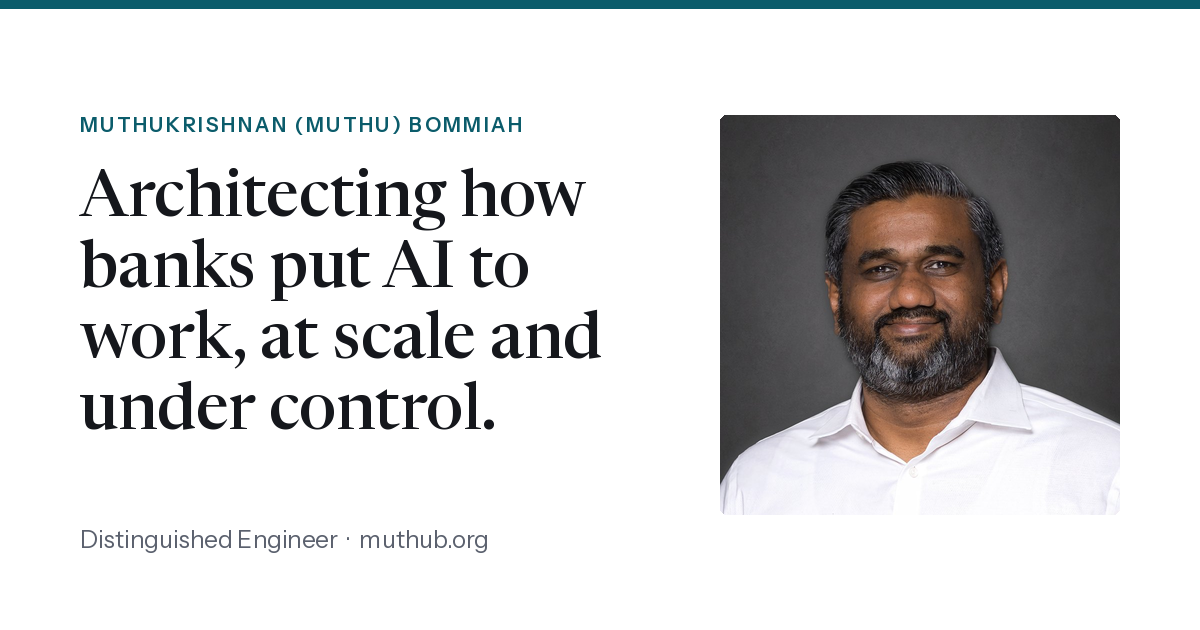
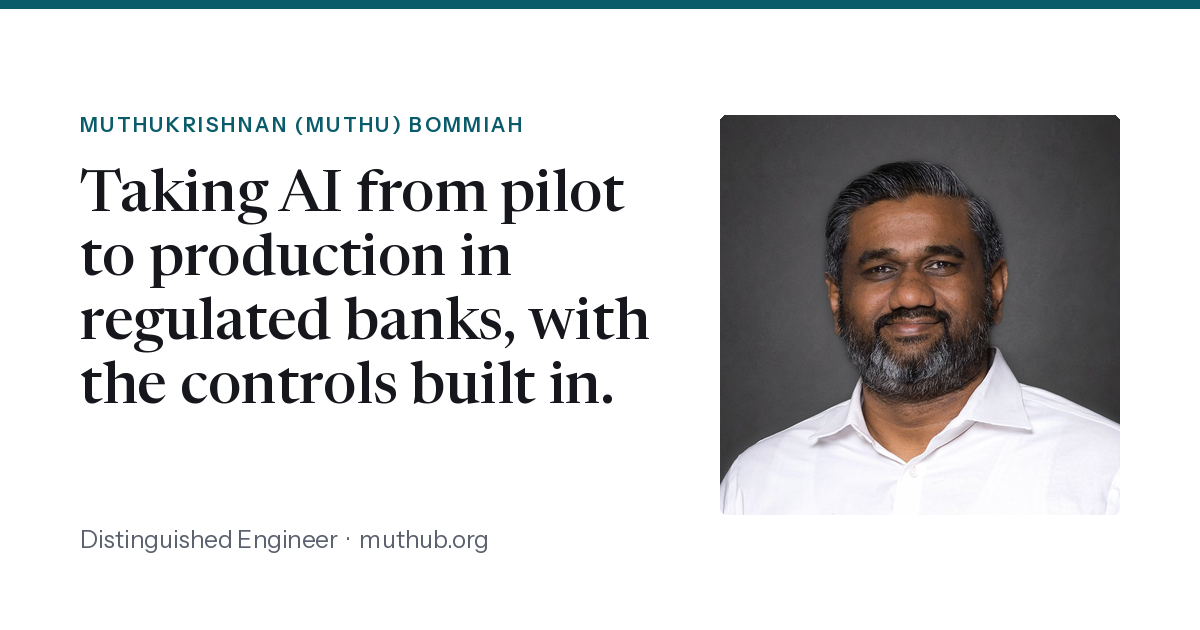
Home: new tagline, outcome first
"Taking AI from pilot to production in regulated banks, with the controls
built in." replaces the architect-centred line in the H1, page title, Open
Graph/Twitter titles, JSON-LD and llms.txt (all read site.tagline), the site
description, and the social card, which the generator now reads from site.ts
and fits to four lines.

Claude-Session: https://claude.ai/code/session_01QESWUnRLmE8zeAsG1KRsaA

Changed region(s): [[0.0617, 0.2714, 0.555, 0.6937]]

diff --git a/content/site.ts b/content/site.ts
@@ -14,11 +14,11 @@ export const site = {
   jobTitle: "Distinguished Engineer",
   employer: "Wells Fargo",
   location: "San Antonio, Texas",
-  tagline: "Architecting how banks put AI to work, at scale and under control.",
+  tagline: "Taking AI from pilot to production in regulated banks, with the controls built in.",
   shortBio:
     "Executive Director and Distinguished Engineer at Wells Fargo. Over two decades building enterprise AI, data and cloud platforms across financial services and global industry. I write about governed AI, the AI-native software lifecycle and the platforms that make both work.",
   description:
-    "Muthukrishnan (Muthu) Bommiah is a Distinguished Engineer at Wells Fargo who architects how banks put AI to work at scale and under control: governed Generative and agentic AI, AI-augmented software delivery, Architecture-as-Code and production machine learning.",
+    "Muthukrishnan (Muthu) Bommiah is a Distinguished Engineer at Wells Fargo who takes AI from pilot to production in regulated banks, with the controls built in: governed Generative and agentic AI, AI-augmented software delivery, Architecture-as-Code and production machine learning.",
   disclosure: "Views are my own and do not represent my employer.",
   headshot: "/headshot.jpg",
   ogImage: "/og-image.png",

diff --git a/scripts/og/make-images.py b/scripts/og/make-images.py
@@ -94,6 +94,12 @@ def headshot(size, radius):
     return rounded(img.resize((size, size), Image.LANCZOS), radius)
 
 
+def tagline():
+    """The home page's H1, read from content/site.ts so the card never drifts from the site."""
+    m = re.search(r'tagline:\s*"([^"]+)"', (ROOT / "content/site.ts").read_text(encoding="utf-8"))
+    return m.group(1)
+
+
 def site_card():
     img = Image.new("RGB", (W, H), PAGE)
     d = ImageDraw.Draw(img)
@@ -102,7 +108,7 @@ def site_card():
     img.paste(headshot(photo, 6), (W - PAD - photo, (H - photo) // 2), headshot(photo, 6))
     text_w = W - PAD * 2 - photo - 64
     tracked(d, (PAD, 112), "MUTHUKRISHNAN (MUTHU) BOMMIAH", font(SANS_BOLD, 20), ACCENT, 2.4)
-    fnt, lines, size = fit_title(d, "Architecting how banks put AI to work, at scale and under control.", text_w, 4, [64, 58, 52])
+    fnt, lines, size = fit_title(d, tagline(), text_w, 4, [64, 58, 52, 48, 44], max_height=(H - PAD - 26) - 168 - 28)
     y = 168
     for line in lines:
         d.text((PAD, y), line, font=fnt, fill=INK)
